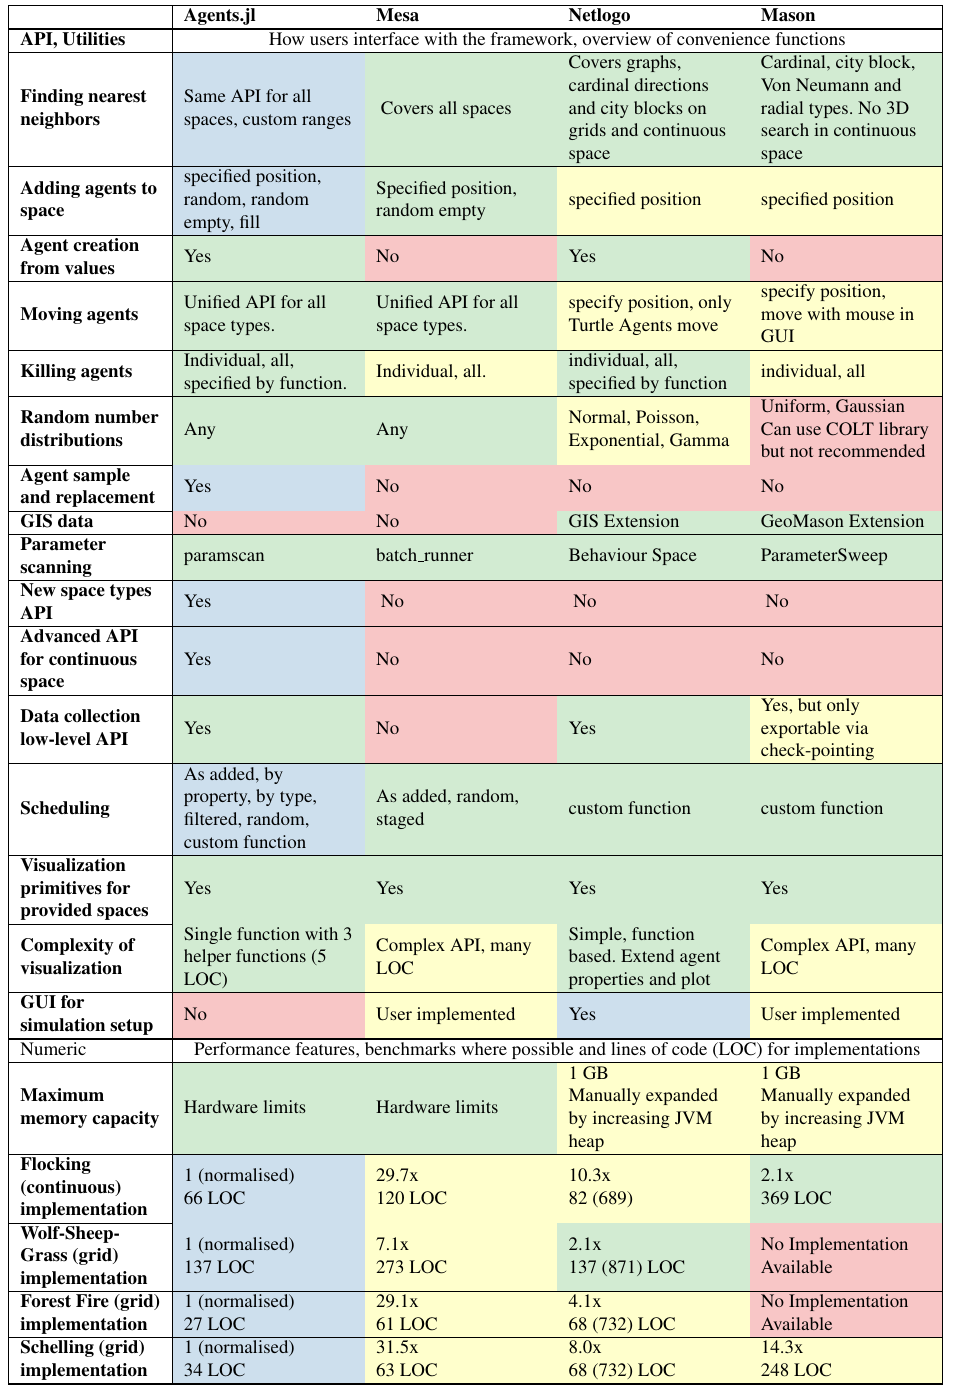
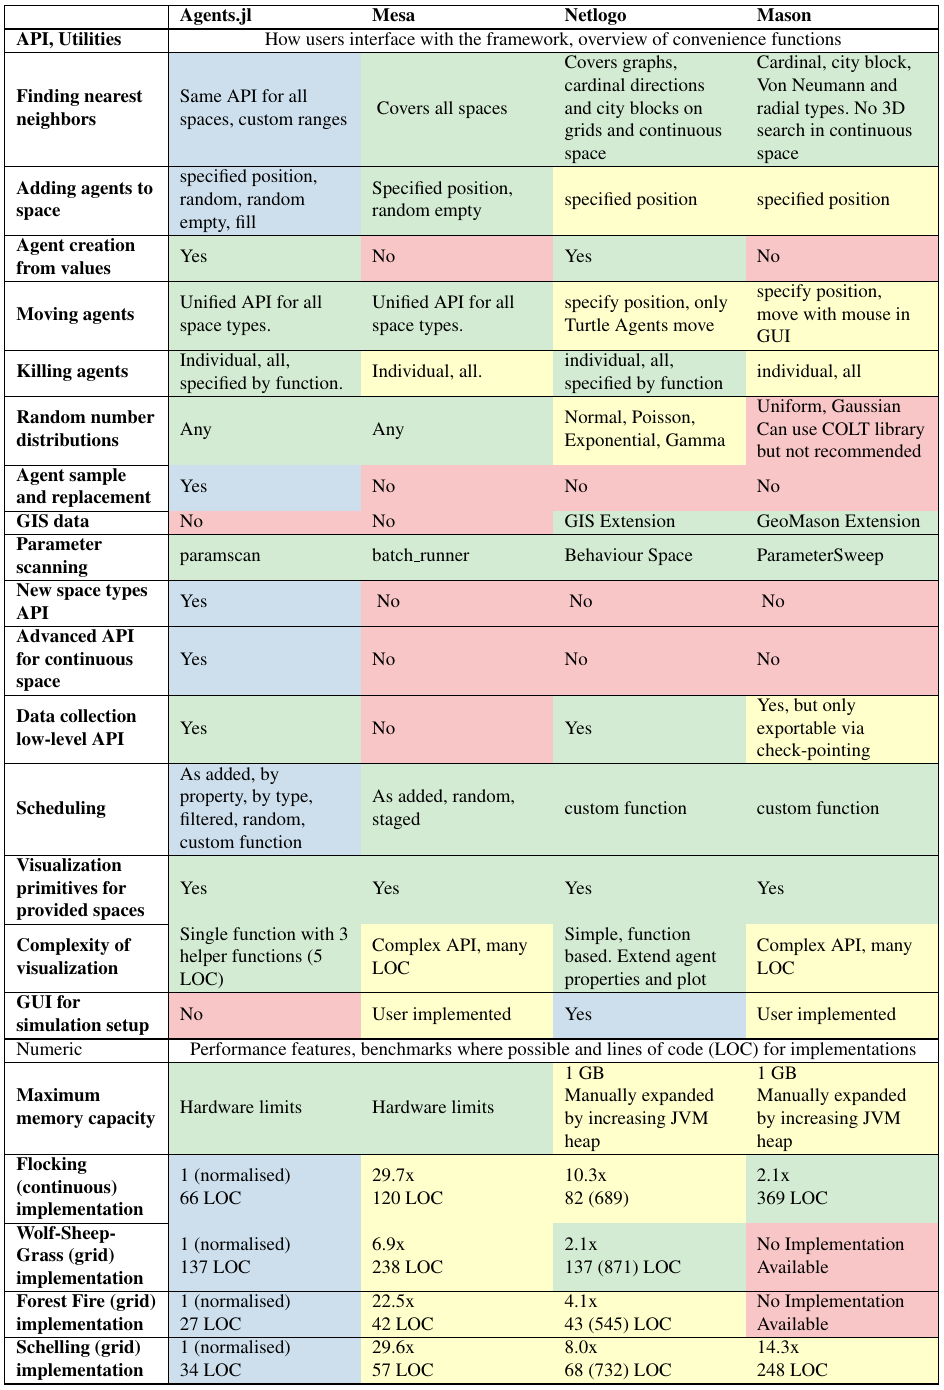
Update documentation

diff --git a/docs/src/comparison.md b/docs/src/comparison.md
@@ -16,14 +16,14 @@ For LOC, we use the following convention: code is formatted using standard pract
 
 | Model/Framework | Agents | Mesa | Netlogo | MASON |
 |---|---|---|---|---|
-|Wolf Sheep Grass|1|7.1x|2.1x|NA|
-|(LOC)|139|273|137 (871)| . |
+|Wolf Sheep Grass|1|6.9x|2.1x|NA|
+|(LOC)|139|238|137 (871)| . |
 |Flocking|1|29.7x|10.3xᕯ|2.1x|
 |(LOC)|66|120|82 (689)|369|
-|Forest Fire|1|29.1x|4.1x|NA|
-|(LOC)|27|61|43 (545)|.|
-|Schelling|1|31.5x|8.0x|14.3x|
-|(LOC)|34|63|68 (732)|248|
+|Forest Fire|1|22.5x|4.1x|NA|
+|(LOC)|27|42|43 (545)|.|
+|Schelling|1|29.6x|8.0x|14.3x|
+|(LOC)|34|57|68 (732)|248|
 
 ᕯ Netlogo has a different implementation to the other three frameworks here. It cheats a little by only choosing one nearest neighbor in some cases rather than considering all neighbors within vision. So a true comparison would ultimately see a slower result.
 
